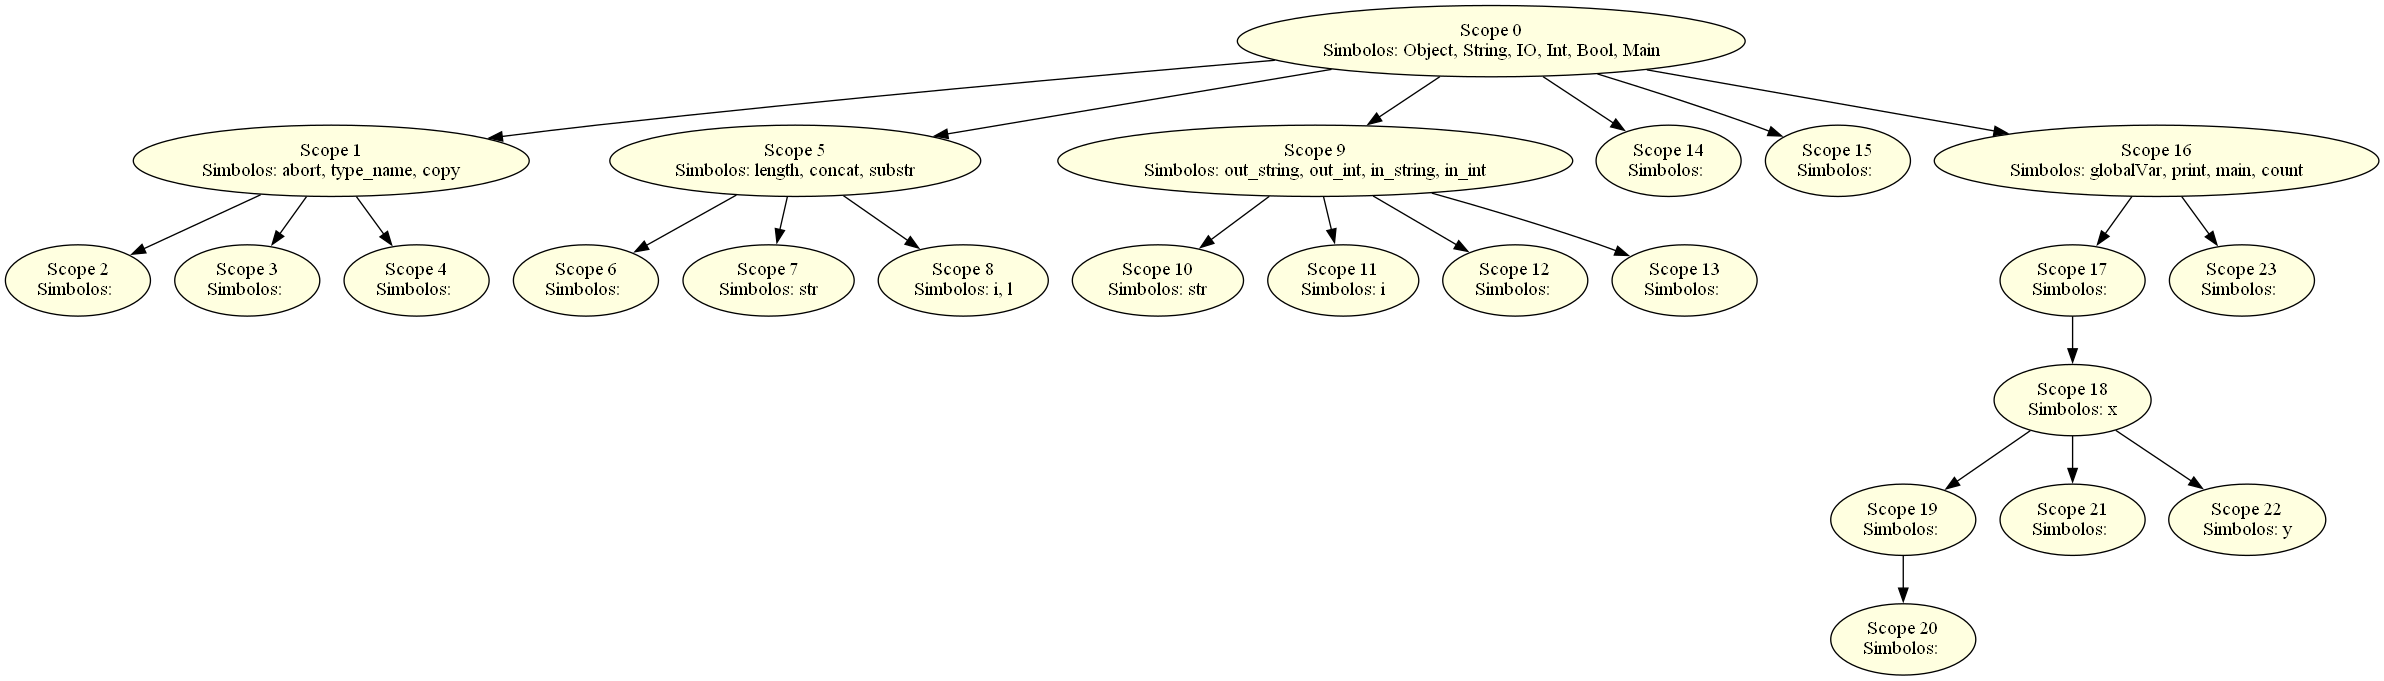
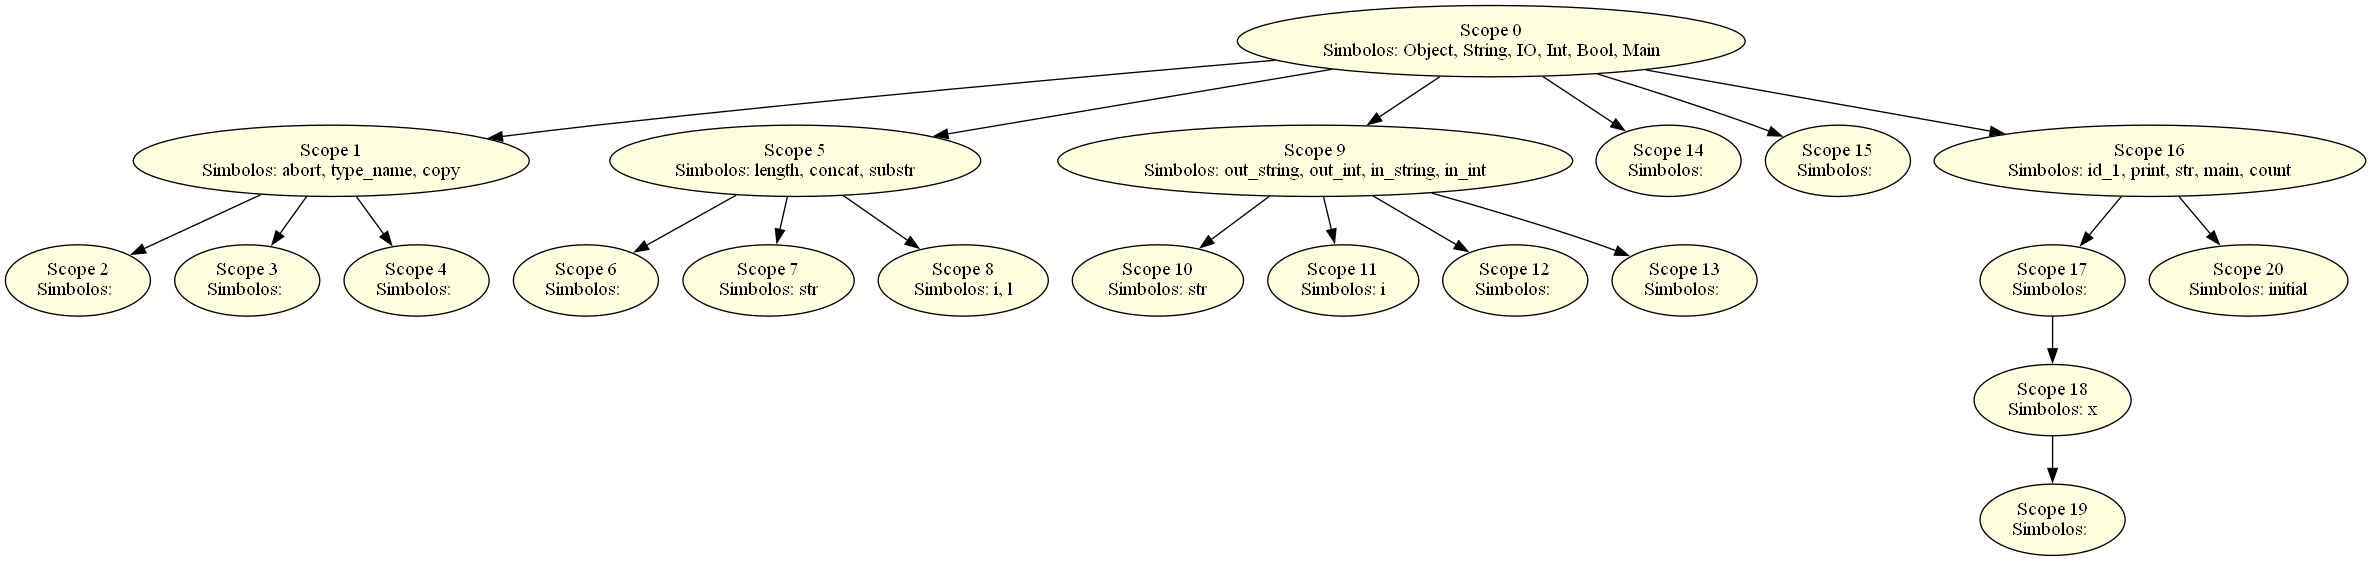
Correcciones en el assign

Changed region(s): [[0.0, 0.0, 0.9987, 0.8182], [0.7491, 0.8485, 0.9051, 1.0]]

diff --git a/semanticVisitor.py b/semanticVisitor.py
@@ -54,14 +54,34 @@ class SemanticVisitor(yalpVisitor):
 
         if token_type == "FUNCTION":
             self.tablaSimbolos.get_enterScope()
-            
+
+        visited = []
         if ctx.expr():
-            self.visit(ctx.expr())
+            visited = self.visit(ctx.expr())
+
+            if isinstance(visited, list):
+                for v in visited:
+                    if isinstance(v, CommonToken):
+                        token_type = self.lexer.symbolicNames[v.type]
+
 
         if ctx.ASSIGN():
             original_type = ctx.TYPE().getText()
-
             assign = self.visit(ctx.expr())[0]
+
+            if isinstance(assign, CommonToken):
+                assign = self.lexer.symbolicNames[assign.type]
+
+                if assign == "BOOLEAN":
+                    assign = "Boolean"
+                elif assign == "INT" or assign == "DIGIT":
+                    assign = "Int"
+                elif assign == "STRING":
+                    assign = "String"
+                elif assign == "ID":
+                    assign = self.tablaSimbolos.get_scope_simbolo(assign.text)
+                    assign = assign.tipo_token
+                
             
             if assign != original_type:
                 linea = ctx.start.line

diff --git a/main.py b/main.py
@@ -132,7 +132,7 @@ def analisis_semantico(tree, tablaSimbolos, lexer, errors):
         custom_print(terminal, "No hay errores en el codigo.", is_success=True)
 
 # Llamar a la función para el scanner
-parser = Parser('./archivos/entrada3.txt')
+parser = Parser('./archivos/entrada6.txt')
 
 # app = interfaz.Interfaz(Parser)
 # app.mainloop()
